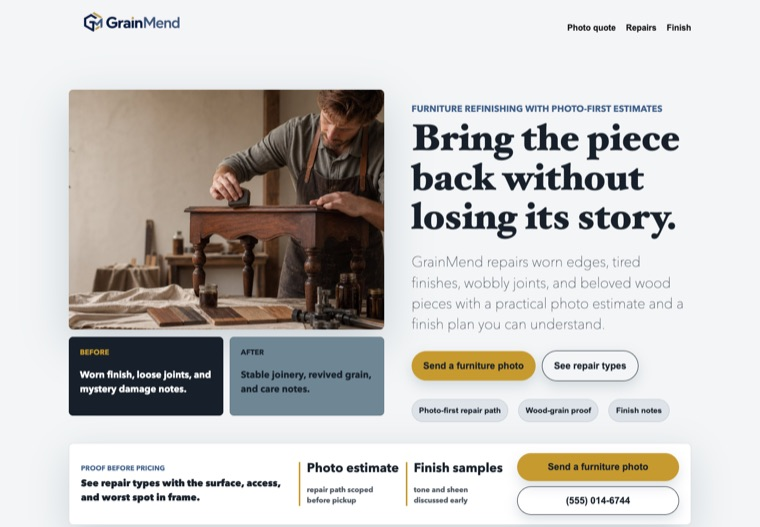
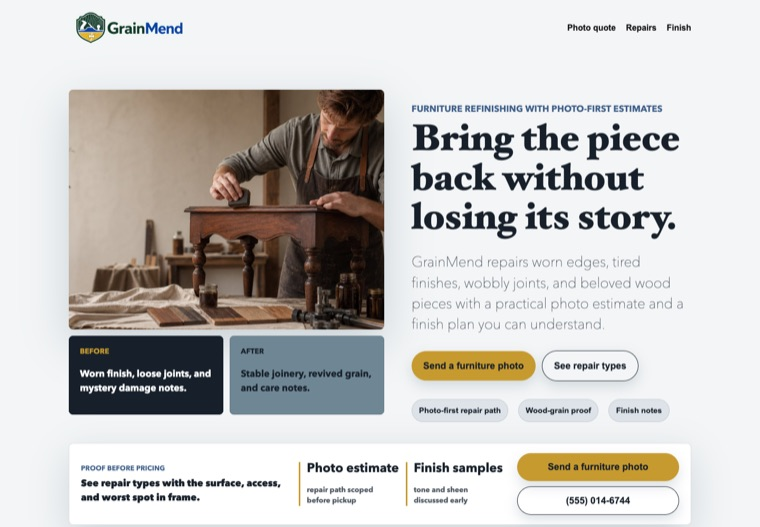
Polish furniture restoration proof flow

diff --git a/docs/index.html b/docs/index.html
@@ -980,14 +980,14 @@
         </ul>
         <p class="hero-note">Use it like a meeting artifact: point at a niche, launch the site, show the proof trail, and make the next production lane feel obvious.</p>
         <div class="actions">
-          <a class="button primary" href="https://playground.wordpress.net/?blueprint-url=https%3A%2F%2Fraw.githubusercontent.com%2FRegionallyFamous%2FSite-O-Mattic%2Fmain%2Fpublic%2Fblueprints%2Fpet-portrait-photography%2Fblueprint.json" aria-label="Open BrightPaw Portraits in WordPress Playground">Open featured demo</a>
+          <a class="button primary" href="https://playground.wordpress.net/?blueprint-url=https%3A%2F%2Fraw.githubusercontent.com%2FRegionallyFamous%2FSite-O-Mattic%2Fmain%2Fpublic%2Fblueprints%2Ffurniture-refinishing-repair%2Fblueprint.json" aria-label="Open GrainMend Furniture Co. in WordPress Playground">Open featured demo</a>
           <a class="button" href="#catalog">Browse screenshot wall</a>
         </div>
       </div>
       <aside class="hero-ticket" aria-label="90-second meeting script">
         <p class="eyebrow">90-second room script</p>
         <h2>Open the site. Show the receipts. Ask for the lane.</h2>
-        <img class="ticket-shot" src="previews/pet-portrait-photography-desktop.png" alt="Screenshot of the featured BrightPaw Portraits demo" loading="eager">
+        <img class="ticket-shot" src="previews/furniture-refinishing-repair-desktop.png" alt="Screenshot of the featured GrainMend Furniture Co. demo" loading="eager">
         <ol class="ticket-list">
           <li><strong>1</strong><span>Pick a niche the room understands instantly.</span></li>
           <li><strong>2</strong><span>Launch the live Playground site.</span></li>
@@ -997,9 +997,9 @@
         <p class="ticket-ask">Ask: fund the next lane of inspectable WordPress sales demos.</p>
       </aside>
       <nav class="hero-shelf" aria-label="Featured live demo screenshots">
-        <a href="https://playground.wordpress.net/?blueprint-url=https%3A%2F%2Fraw.githubusercontent.com%2FRegionallyFamous%2FSite-O-Mattic%2Fmain%2Fpublic%2Fblueprints%2Fpet-portrait-photography%2Fblueprint.json" aria-label="Open BrightPaw Portraits live demo in WordPress Playground">
-          <img src="catalog-assets/pet-portrait-photography-screenshot.jpg" alt="" loading="eager">
-          <span>BrightPaw Portraits</span>
+        <a href="https://playground.wordpress.net/?blueprint-url=https%3A%2F%2Fraw.githubusercontent.com%2FRegionallyFamous%2FSite-O-Mattic%2Fmain%2Fpublic%2Fblueprints%2Ffurniture-refinishing-repair%2Fblueprint.json" aria-label="Open GrainMend Furniture Co. live demo in WordPress Playground">
+          <img src="catalog-assets/furniture-refinishing-repair-screenshot.jpg" alt="" loading="eager">
+          <span>GrainMend Furniture Co.</span>
         </a>
         <a href="https://playground.wordpress.net/?blueprint-url=https%3A%2F%2Fraw.githubusercontent.com%2FRegionallyFamous%2FSite-O-Mattic%2Fmain%2Fpublic%2Fblueprints%2Fgarage-organization%2Fblueprint.json" aria-label="Open GridNest Garage live demo in WordPress Playground">
           <img src="catalog-assets/garage-organization-screenshot.jpg" alt="" loading="eager">
@@ -1041,18 +1041,18 @@
     </section>
 
     <section class="latest" aria-labelledby="featured-heading">
-      <a class="latest-preview" href="https://playground.wordpress.net/?blueprint-url=https%3A%2F%2Fraw.githubusercontent.com%2FRegionallyFamous%2FSite-O-Mattic%2Fmain%2Fpublic%2Fblueprints%2Fpet-portrait-photography%2Fblueprint.json" aria-label="Open BrightPaw Portraits in WordPress Playground">
-        <img class="desktop-shot" src="previews/pet-portrait-photography-desktop.png" alt="BrightPaw Portraits desktop preview" loading="eager">
-        <img class="mobile-shot" src="previews/pet-portrait-photography-mobile-390.png" alt="BrightPaw Portraits mobile preview" loading="eager">
+      <a class="latest-preview" href="https://playground.wordpress.net/?blueprint-url=https%3A%2F%2Fraw.githubusercontent.com%2FRegionallyFamous%2FSite-O-Mattic%2Fmain%2Fpublic%2Fblueprints%2Ffurniture-refinishing-repair%2Fblueprint.json" aria-label="Open GrainMend Furniture Co. in WordPress Playground">
+        <img class="desktop-shot" src="previews/furniture-refinishing-repair-desktop.png" alt="GrainMend Furniture Co. desktop preview" loading="eager">
+        <img class="mobile-shot" src="previews/furniture-refinishing-repair-mobile-390.png" alt="GrainMend Furniture Co. mobile preview" loading="eager">
       </a>
       <div>
         <p class="eyebrow">Featured proof</p>
-        <h2 id="featured-heading">BrightPaw Portraits</h2>
-        <p>Slow, treat-friendly studio sessions turn expressive pets into framed prints, proof sheets, and images that still feel unmistakably theirs.</p>
+        <h2 id="featured-heading">GrainMend Furniture Co.</h2>
+        <p>GrainMend repairs worn edges, tired finishes, wobbly joints, and beloved wood pieces with a practical photo estimate and a finish plan you can understand.</p>
         <div class="actions">
-          <a class="button primary" href="https://playground.wordpress.net/?blueprint-url=https%3A%2F%2Fraw.githubusercontent.com%2FRegionallyFamous%2FSite-O-Mattic%2Fmain%2Fpublic%2Fblueprints%2Fpet-portrait-photography%2Fblueprint.json" aria-label="Launch BrightPaw Portraits in WordPress Playground">Launch in Playground</a>
-          <a class="button" href="https://raw.githubusercontent.com/RegionallyFamous/Site-O-Mattic/main/public/blueprints/pet-portrait-photography/blueprint.json" aria-label="Open BrightPaw Portraits Blueprint JSON">Blueprint JSON</a>
-          <a class="button" href="https://raw.githubusercontent.com/RegionallyFamous/Site-O-Mattic/main/public/blueprints/pet-portrait-photography/pet-portrait-photography-blueprint.zip" aria-label="Download BrightPaw Portraits Blueprint ZIP">Download ZIP</a>
+          <a class="button primary" href="https://playground.wordpress.net/?blueprint-url=https%3A%2F%2Fraw.githubusercontent.com%2FRegionallyFamous%2FSite-O-Mattic%2Fmain%2Fpublic%2Fblueprints%2Ffurniture-refinishing-repair%2Fblueprint.json" aria-label="Launch GrainMend Furniture Co. in WordPress Playground">Launch in Playground</a>
+          <a class="button" href="https://raw.githubusercontent.com/RegionallyFamous/Site-O-Mattic/main/public/blueprints/furniture-refinishing-repair/blueprint.json" aria-label="Open GrainMend Furniture Co. Blueprint JSON">Blueprint JSON</a>
+          <a class="button" href="https://raw.githubusercontent.com/RegionallyFamous/Site-O-Mattic/main/public/blueprints/furniture-refinishing-repair/furniture-refinishing-repair-blueprint.zip" aria-label="Download GrainMend Furniture Co. Blueprint ZIP">Download ZIP</a>
         </div>
       </div>
     </section>
@@ -2008,7 +2008,7 @@
     </details>
 
     <footer>
-      Generated 2026-06-28T00:57:21Z from RegionallyFamous/Site-O-Mattic on main.
+      Generated 2026-06-28T02:06:24Z from RegionallyFamous/Site-O-Mattic on main.
     </footer>
   </main>
 </body>

diff --git a/docs/catalog-uniqueness-report.md b/docs/catalog-uniqueness-report.md
@@ -18,7 +18,7 @@ Generated by `npm run blueprint:uniqueness:write`. This report catches scale-lev
 | surface family | 11 | `outlined-repeaters` | 6 | 7 | OK |
 | CTA rhythm | 10 | `photo-first` | 7 | 9 | OK |
 | image role | 6 | `work-in-progress` | 12 | 17 | OK |
-| core block feature | 11 | `table+details` | 8 | 10 | OK |
+| core block feature | 11 | `table+details` | 7 | 10 | OK |
 | render family | 16 | `gallery-led` | 5 | 5 | OK |
 | typography treatment | 35 | `airy-romantic-display-with-practical-sans` | 1 | 4 | OK |
 | body font family | 4 | `Avenir Next` | 12 | 14 | OK |
@@ -41,9 +41,9 @@ Generated by `npm run blueprint:uniqueness:write`. This report catches scale-lev
 | silhouette | `consultation-story-flow` | 5 | 6 | 1 |
 | body/display/accent triplet | `Aptos / DIN Alternate / IBM Plex Mono` | 3 | 4 | 1 |
 | body font family | `Avenir Next` | 12 | 14 | 2 |
-| core block feature | `table+details` | 8 | 10 | 2 |
 | CTA rhythm | `photo-first` | 7 | 9 | 2 |
 | color role fingerprint | `ink:deepGreen / paper:cream / field:mist / line:leaf / primary:grass / action:sun / proof:leaf / muted:soil / warning:sun / shadowTint:deepGreen` | 12 | 15 | 3 |
+| core block feature | `table+details` | 7 | 10 | 3 |
 | display font family | `DIN Alternate` | 6 | 9 | 3 |
 | image role | `work-in-progress` | 12 | 17 | 5 |
 
@@ -53,15 +53,14 @@ These are the first candidates to rework when doing another polish pass. They si
 
 | Slug | Reasons |
 | --- | --- |
-| `deck-fence-staining` | `surface family:outlined-repeaters`, `CTA rhythm:photo-first`, `core block feature:table+details`, `body font family:Avenir Next`, `display font category:book-editorial-serif` |
-| `furniture-refinishing-repair` | `surface family:outlined-repeaters`, `CTA rhythm:photo-first`, `core block feature:table+details`, `body font family:Avenir Next`, `display font category:book-editorial-serif` |
+| `deck-fence-staining` | `surface family:outlined-repeaters`, `CTA rhythm:photo-first`, `body font family:Avenir Next`, `display font category:book-editorial-serif` |
+| `furniture-refinishing-repair` | `surface family:outlined-repeaters`, `CTA rhythm:photo-first`, `body font family:Avenir Next`, `display font category:book-editorial-serif` |
 | `pet-portrait-photography` | `style family:editorial-proof-stage`, `render family:gallery-led`, `display font category:book-editorial-serif`, `color role fingerprint:ink:deepGreen / paper:cream / field:mist / line:leaf / primary:grass / action:sun / proof:leaf / muted:soil / warning:sun / shadowTint:deepGreen` |
 | `balloon-garland-party-backdrop` | `style family:editorial-proof-stage`, `render family:gallery-led`, `color role fingerprint:ink:deepGreen / paper:cream / field:mist / line:leaf / primary:grass / action:sun / proof:leaf / muted:soil / warning:sun / shadowTint:deepGreen` |
 | `carpet-upholstery-cleaning` | `surface family:outlined-repeaters`, `display font category:book-editorial-serif`, `color role fingerprint:ink:deepGreen / paper:cream / field:mist / line:leaf / primary:grass / action:sun / proof:leaf / muted:soil / warning:sun / shadowTint:deepGreen` |
 | `headshot-brand-photography` | `style family:editorial-proof-stage`, `render family:gallery-led`, `display font category:book-editorial-serif` |
 | `micro-wedding-florals` | `silhouette:consultation-story-flow`, `style family:editorial-proof-stage`, `color role fingerprint:ink:deepGreen / paper:cream / field:mist / line:leaf / primary:grass / action:sun / proof:leaf / muted:soil / warning:sun / shadowTint:deepGreen` |
-| `mobile-knife-sharpening` | `core block feature:table+details`, `body font family:Avenir Next`, `display font category:book-editorial-serif` |
 | `mural-window-lettering-artist` | `surface family:outlined-repeaters`, `CTA rhythm:photo-first`, `body font family:Avenir Next` |
 | `picnic-proposal-setup` | `style family:editorial-proof-stage`, `render family:gallery-led`, `color role fingerprint:ink:deepGreen / paper:cream / field:mist / line:leaf / primary:grass / action:sun / proof:leaf / muted:soil / warning:sun / shadowTint:deepGreen` |
 | `pollinator-garden-refresh` | `CTA rhythm:photo-first`, `body font family:Avenir Next`, `display font category:book-editorial-serif` |
-| `pressure-washing-service` | `CTA rhythm:photo-first`, `core block feature:table+details`, `color role fingerprint:ink:deepGreen / paper:cream / field:mist / line:leaf / primary:grass / action:sun / proof:leaf / muted:soil / warning:sun / shadowTint:deepGreen` |
+| `senior-downsizing-move-prep` | `silhouette:consultation-story-flow`, `surface family:outlined-repeaters`, `display font category:book-editorial-serif` |

diff --git a/docs/production-redo-manifest.md b/docs/production-redo-manifest.md
@@ -26,7 +26,7 @@ Generated by `npm run blueprint:manifest:write`. This is the pre-flight map for 
 | deck and fence staining service | `deck-fence-staining` | workshop-bench-photo-quote | operator-console | split-side-top-hybrid | send-photo-actions | workshop-bench | craft-bench-sturdy-serif-sans | Charter / Franklin Gothic Medium | bookish material display with humanist body and sturdy shop labels | utility-mono-ledger | cedar-material-board-with-copper-sample-action; action:sun; proof:leaf | material/process closeup with craft detail | photo-first | table+details | wood-photo-too-abstract, care-note-too-long |
 | dessert table and bakery catering | `dessert-table-bakery-catering` | gallery-led-portfolio-proof | editorial-proof-stage | compact-header | post-hero-date-actions | gallery-led | bakery-editorial-serif-with-clean-menu-labels | Didot / Gill Sans | serif or bookish display paired with readable sans body | editorial-display | frosted-paper-with-berry-and-gold-action; action:leaf; proof:leaf | styled dessert table with tiered cake, tarts, macarons, and final placement detail | date-check | gallery+quote | first-viewport-cta, logo-scale |
 | driveway sealcoating service | `driveway-sealcoating` | seasonal-readiness-estimate | split-quote-board | compact-header | inline-estimate-actions | surface-seasonal | industrial-seasonal-condensed | Franklin Gothic Medium / Courier New | condensed or sturdy display with mono/accent labels | utility-mono-ledger | asphalt-charcoal-with-gold-seasonal-signal; action:sun; proof:leaf | seasonal surface restoration in progress | quote-first | table | dark-hero-contrast, weather-window-cta-buried |
-| furniture refinishing and repair service | `furniture-refinishing-repair` | photo-quote-transformation | split-quote-board | floating-proof-action | floating-proof-plus-send-photo-actions | before-after-quote | restoration-craft-serif-with-shop-sans | Hoefler Text / Franklin Gothic Medium | bookish material display with humanist body and sturdy shop labels | utility-mono-ledger | warm-wood-neutrals-with-brass-repair-action; action:sun; proof:grass | craftsperson refinishing a wooden furniture piece in a tidy workshop with tools and finish samples | photo-first | table+details | first-viewport-cta, logo-scale |
+| furniture refinishing and repair service | `furniture-refinishing-repair` | photo-quote-transformation | split-quote-board | floating-proof-action | floating-proof-plus-send-photo-actions | before-after-quote | restoration-craft-serif-with-shop-sans | Hoefler Text / Franklin Gothic Medium | bookish material display with humanist body and sturdy shop labels | utility-mono-ledger | warm-wood-neutrals-with-brass-repair-action; action:sun; proof:grass | craftsperson refinishing a wooden furniture piece in a tidy workshop with tools and finish samples | photo-first | table+details+quote | first-viewport-cta, logo-scale |
 | garage organization service | `garage-organization` | zone-grid-planner | operator-console | split-nav-action-header | photo-plan-actions | zone-grid-planner | organized-grid-humanist-sans | Franklin Gothic Medium / IBM Plex Mono | compact system sans with useful hierarchy | humanist-service | garage-charcoal-grid-with-safety-orange-action; action:sun; proof:leaf | finished organized zone outcome | photo-plan | group/columns/buttons | zone-map-too-decorative, mobile-grid-cramping |
 | gutter cleaning service | `gutter-cleaning` | risk-prevention-warning-path | viewport-safe-conversion-shell | compact-header | inline-risk-phone-actions | risk-prevention | sturdy-safety-sans | DIN Alternate / Franklin Gothic Medium | condensed or sturdy display with mono/accent labels | utility-mono-ledger | deep-protection-contrast-with-warning-accent; action:sun; proof:leaf | visible home-risk mitigation work | call-first | group/columns/buttons | warning-color-overuse, roofline-photo-crop |
 | headshot and brand photography studio | `headshot-brand-photography` | gallery-led-portfolio-proof | gallery-mosaic-proof | compact-header | image-led-session-stack-plus-inline-booking | gallery-led | warm-portrait-serif-with-playful-labels | Charter / Avenir Next | serif or bookish display paired with readable sans body | editorial-display | studio-neutral-paper-with-camera-blue-action; action:sun; proof:grass | studio headshot service moment with photographer using camera setup, coaching under softbox lighting, and proof-selection contact sheet | book-first | gallery+quote | first-viewport-cta, logo-scale |